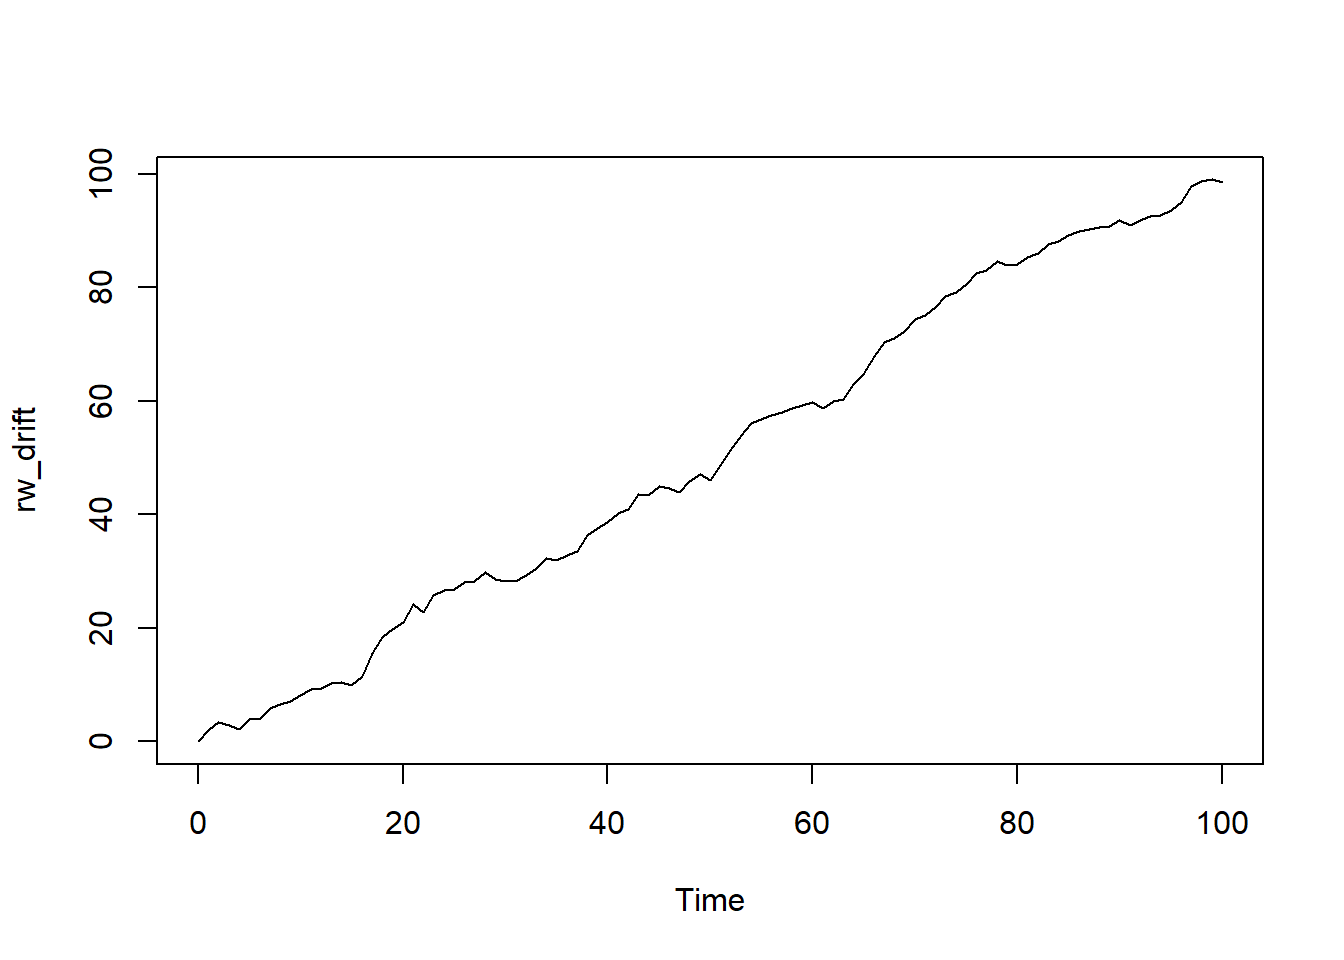
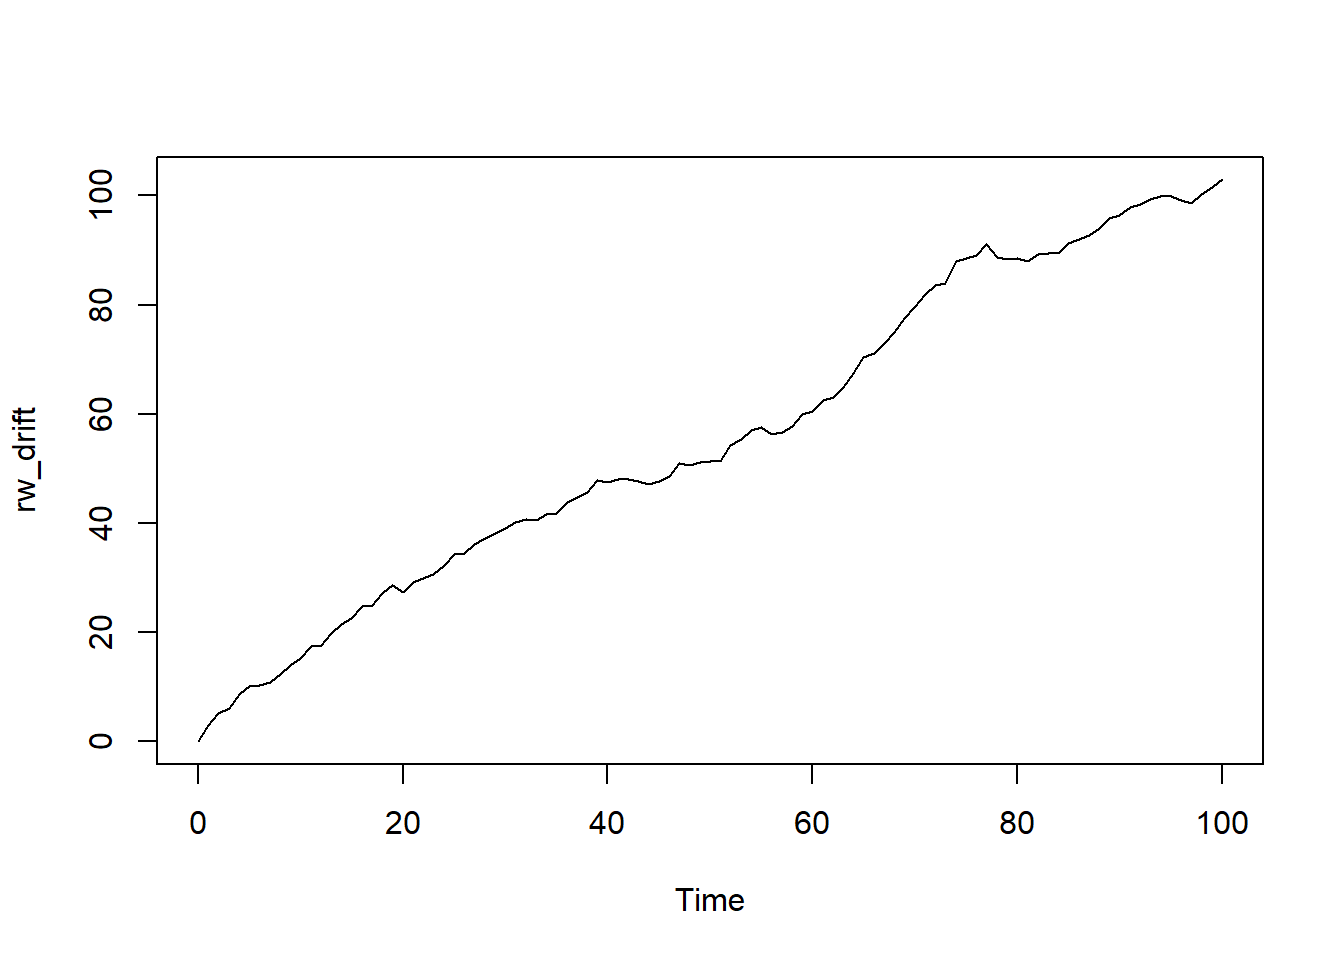
gg

diff --git a/content/post/2021-10-27-time-series-analysis-in-r/index.en.html b/content/post/2021-10-27-time-series-analysis-in-r/index.en.html
@@ -25,13 +25,19 @@ class(Nile)</code></pre>
 <pre><code>## [1] &quot;ts&quot;</code></pre>
 <pre class="r"><code>data_vector &lt;- c(2.0521941073,  4.2928852797,  3.3294132944,  3.5085950670,  0.0009576938, 1.9217186345,  0.7978134128,  0.2999543435, 0.9435687536,  0.5748283388, -0.0034005903,  0.3448649176,  2.2229761136,  0.1763144576, 2.7097622770, 1.2501948965, -0.4007164754,  0.8852732121, -1.5852420266, -2.2829278891, -2.5609531290, -3.1259963754, -2.8660295895, -1.7847009207, -1.8894912908, -2.7255351194, -2.1033141800, -0.0174256893, -0.3613204151, -2.9008403327, -3.2847440927, -2.8684594718, -1.9505074437, -4.8801892525, -3.2634605353, -1.6396062522, -3.3012575840, -2.6331245433, -1.7058354022, -2.2119825061, -0.5170595186,  0.0752508095, -0.8406994716, -1.4022683487, -0.1382114230, -1.4065954703, -2.3046941055,  1.5073891432, 0.7118679477, -1.1300519022)
 
-eu_stocks &lt;- as.ts(read.csv(&quot;eu_stocks.csv&quot;), start = 1998, end = 1998)
-#eu_stocks &lt;- ts(eu_stocks1, start = 1998, end = 1998)
+eu_stocks &lt;- as.ts(read.csv(&quot;eu_stocks.csv&quot;), start = c(1991, 130), end = c(1998, 169), frequency=260)
+
 
 rapid_growth &lt;- as.vector(read.csv(&quot;rapid_growth.csv&quot;))
 z &lt;- read.csv(&quot;z.csv&quot;)$x
 x &lt;- read.csv(&quot;x.csv&quot;)$x
-y &lt;- read.csv(&quot;y.csv&quot;)$x</code></pre>
+y &lt;- read.csv(&quot;y.csv&quot;)$x
+
+str(eu_stocks)</code></pre>
+<pre><code>##  Time-Series [1:1860, 1:4] from 1 to 1860: 1629 1614 1607 1621 1618 ...
+##  - attr(*, &quot;dimnames&quot;)=List of 2
+##   ..$ : NULL
+##   ..$ : chr [1:4] &quot;DAX&quot; &quot;SMI&quot; &quot;CAC&quot; &quot;FTSE&quot;</code></pre>
 <div id="course-description" class="section level2">
 <h2>Course Description</h2>
 <p>Many phenomena in our day-to-day lives, such as the movement of stock prices, are measured in intervals over a period of time. Time series analysis methods are extremely useful for analyzing these special data types. In this course, you will be introduced to some core time series analysis concepts and techniques.</p>
@@ -547,10 +553,96 @@ abline(0, int_wn)</code></pre>
 <h2>2-16 Are the white noise model or the random walk model stationary?</h2>
 <p>The white noise (WN) and random walk (RW) models are very closely related. However, only the RW is always non-stationary, both with and without a drift term. This is a simulation exercise to highlight the differences.</p>
 <p>Recall that if we start with a mean zero WN process and compute its running or cumulative sum, the result is a RW process. The cumsum() function will make this transformation for you. Similarly, if we create a WN process, but change its mean from zero, and then compute its cumulative sum, the result is a RW process with a drift.</p>
+<pre class="r"><code># Use arima.sim() to generate WN data
+white_noise &lt;- arima.sim(model= list(order = c(0, 0, 0)), n=100)
+
+# Use cumsum() to convert your WN data to RW
+random_walk &lt;- cumsum(white_noise)
+  
+# Use arima.sim() to generate WN drift data
+wn_drift &lt;- arima.sim(model= list(order = c(0, 0, 0)), mean=0.4, n=100)
+  
+# Use cumsum() to convert your WN drift data to RW
+rw_drift &lt;- cumsum(wn_drift)
+
+# Plot all four data objects
+plot.ts(cbind(white_noise, random_walk, wn_drift, rw_drift))</code></pre>
+<p><img src="{{< blogdown/postref >}}index.en_files/figure-html/unnamed-chunk-18-1.png" width="672" /></p>
 </div>
 <div id="correlation-analysis-and-the-autocorrelation-function" class="section level2">
 <h2>3- Correlation analysis and the autocorrelation function</h2>
 <p>In this chapter, you will review the correlation coefficient, use it to compare two time series, and also apply it to compare a time series with its past, as an autocorrelation. You will discover the autocorrelation function (ACF) and practice estimating and visualizing autocorrelations for time series data.</p>
+</div>
+<div id="asset-prices-vs.-asset-returns" class="section level2">
+<h2>3-2 Asset prices vs. asset returns</h2>
+<p>The goal of investing is to make a profit. The revenue or loss from investing depends on the amount invested and changes in prices, and high revenue relative to the size of an investment is of central interest. This is what financial asset returns measure, changes in price as a fraction of the initial price over a given time horizon, for example, one business day.</p>
+<p>Let’s again consider the eu_stocks dataset. This dataset reports index values, which we can regard as prices. The indices are not investable assets themselves, but there are many investable financial assets that closely track major market indices, including mutual funds and exchange traded funds.</p>
+<p>Log returns, also called continuously compounded returns, are also commonly used in financial time series analysis. They are the log of gross returns, or equivalently, the changes (or first differences) in the logarithm of prices.</p>
+<p>The change in appearance between daily prices and daily returns is typically substantial, while the difference between daily returns and log returns is usually small. As you’ll see later, one advantage of using log returns is that calculating multi-period returns from individual periods is greatly simplified - you just add them together!</p>
+<p>In this exercise, you’ll further explore the eu_stocks dataset, including plotting prices, converting prices to (net) returns, and converting prices to log returns.</p>
+<pre class="r"><code># Plot eu_stocks
+plot(eu_stocks)</code></pre>
+<p><img src="{{< blogdown/postref >}}index.en_files/figure-html/unnamed-chunk-19-1.png" width="672" /></p>
+<pre class="r"><code># Use this code to convert prices to returns
+returns &lt;- eu_stocks[-1,] / eu_stocks[-1860,] - 1
+
+# Convert returns to ts
+returns &lt;- ts(returns, start = c(1991, 130), frequency = 260)
+
+# Plot returns
+plot(returns)</code></pre>
+<p><img src="{{< blogdown/postref >}}index.en_files/figure-html/unnamed-chunk-19-2.png" width="672" /></p>
+<pre class="r"><code># Use this code to convert prices to log returns
+logreturns &lt;- diff(log(eu_stocks))
+
+# Plot logreturns
+plot(logreturns)</code></pre>
+<p><img src="{{< blogdown/postref >}}index.en_files/figure-html/unnamed-chunk-19-3.png" width="672" /></p>
+</div>
+<div id="characteristics-of-financial-time-series" class="section level2">
+<h2>3-3 Characteristics of financial time series</h2>
+<p>Daily financial asset returns typically share many characteristics. Returns over one day are typically small, and their average is close to zero. At the same time, their variances and standard deviations can be relatively large. Over the course of a few years, several very large returns (in magnitude) are typically observed. These relative outliers happen on only a handful of days, but they account for the most substantial movements in asset prices. Because of these extreme returns, the distribution of daily asset returns is not normal, but heavy-tailed, and sometimes skewed. In general, individual stock returns typically have even greater variability and more extreme observations than index returns.</p>
+<p>In this exercise, you’ll work with the eu_percentreturns dataset, which is the percentage returns calculated from your eu_stocks data. For each of the four indices contained in your data, you’ll calculate the sample mean, variance, and standard deviation.</p>
+<p>Notice that the average daily return is about 0, while the standard deviation is about 1 percentage point. Also apply the hist() and qqnorm() functions to make histograms and normal quantile plots, respectively, for each of the indices.</p>
+</div>
+<div id="plotting-pairs-of-data" class="section level2">
+<h2>3-4 Plotting pairs of data</h2>
+<p>Time series data is often presented in a time series plot. For example, the index values from the eu_stocks dataset are shown in the adjoining figure. Recall, eu_stocks contains daily closing prices from 1991-1998 for the major stock indices in Germany (DAX), Switzerland (SMI), France (CAC), and the UK (FTSE).</p>
+<p>It is also useful to examine the bivariate relationship between pairs of time series. In this exercise we will consider the contemporaneous relationship, that is matching observations that occur at the same time, between pairs of index values as well as their log returns. The plot(a, b) function will produce a scatterplot when two time series names a and b are given as input.</p>
+<p>To simultaneously make scatterplots for all pairs of several assets the pairs() function can be applied to produce a scatterplot matrix. When shared time trends are present in prices or index values it is common to instead compare their returns or log returns.</p>
+<p>In this exercise, you’ll practice these skills on the eu_stocks data. Because the DAX and FTSE returns have similar time coverage, you can easily make a scatterplot of these indices. Note that the normal distribution has elliptical contours of equal probability, and pairs of data drawn from the multivariate normal distribution form a roughly elliptically shaped point cloud. Do any of the pairs in the scatterplot matrices exhibit this pattern, before or after log transformation?</p>
+</div>
+<div id="calculating-sample-covariances-and-correlations" class="section level2">
+<h2>3-6 Calculating sample covariances and correlations</h2>
+<p>Sample covariances measure the strength of the linear relationship between matched pairs of variables. The cov() function can be used to calculate covariances for a pair of variables, or a covariance matrix when a matrix containing several variables is given as input. For the latter case, the matrix is symmetric with covariances between variables on the off-diagonal and variances of the variables along the diagonal. On the right you can see the scatterplot matrix of your logreturns data.</p>
+<p>Covariances are very important throughout finance, but they are not scale free and they can be difficult to directly interpret. Correlation is the standardized version of covariance that ranges in value from -1 to 1, where values close to 1 in magnitude indicate a strong linear relationship between pairs of variables. The cor() function can be applied to both pairs of variables as well as a matrix containing several variables, and the output is interpreted analogously.</p>
+<p>In this exercise, you’ll use cov() and cor() to explore your logreturns data.</p>
+</div>
+<div id="calculating-autocorrelations" class="section level2">
+<h2>3-9 Calculating autocorrelations</h2>
+<p>Autocorrelations or lagged correlations are used to assess whether a time series is dependent on its past. For a time series x of length n we consider the n-1 pairs of observations one time unit apart. The first such pair is (x[2],x[1]), and the next is (x[3],x[2]). Each such pair is of the form (x[t],x[t-1]) where t is the observation index, which we vary from 2 to n in this case. The lag-1 autocorrelation of x can be estimated as the sample correlation of these (x[t], x[t-1]) pairs.</p>
+<p>In general, we can manually create these pairs of observations. First, create two vectors, x_t0 and x_t1, each with length n-1, such that the rows correspond to (x[t], x[t-1]) pairs. Then apply the cor() function to estimate the lag-1 autocorrelation.</p>
+<p>Luckily, the acf() command provides a shortcut. Applying</p>
+<p>acf(…, lag.max = 1, plot = FALSE)</p>
+<p>to a series x automatically calculates the lag-1 autocorrelation.</p>
+<p>Finally, note that the two estimates differ slightly as they use slightly different scalings in their calculation of sample covariance, 1/(n-1) versus 1/n. Although the latter would provide a biased estimate, it is preferred in time series analysis, and the resulting autocorrelation estimates only differ by a factor of (n-1)/n.</p>
+<p>In this exercise, you’ll practice both the manual and automatic calculation of a lag-1 autocorrelation. The time series x and its length n (150) have already been loaded. The series is shown in the plot on the right.</p>
+</div>
+<div id="the-autocorrelation-function" class="section level2">
+<h2>3-10 The autocorrelation function</h2>
+<p>Autocorrelations can be estimated at many lags to better assess how a time series relates to its past. We are typically most interested in how a series relates to its most recent past.</p>
+<p>The</p>
+<p>acf(…, lag.max = …, plot = FALSE)</p>
+<p>function will estimate all autocorrelations from 0, 1, 2,…, up to the value specified by the argument lag.max. In the previous exercise, you focused on the lag-1 autocorrelation by setting the lag.max argument to 1.</p>
+<p>In this exercise, you’ll explore some further applications of the acf() command. Once again, the time series x has been preloaded for you and is shown in the plot on the right.</p>
+</div>
+<div id="visualizing-the-autocorrelation-function" class="section level2">
+<h2>3-11 Visualizing the autocorrelation function</h2>
+<p>Estimating the autocorrelation function (ACF) at many lags allows us to assess how a time series x relates to its past. The numeric estimates are important for detailed calculations, but it is also useful to visualize the ACF as a function of the lag.</p>
+<p>In fact, the acf() command produces a figure by default. It also makes a default choice for lag.max, the maximum number of lags to be displayed.</p>
+<p>Three time series x, y, and z have been loaded into your R environment and are plotted on the right. The time series x shows strong persistence, meaning the current value is closely relatively to those that proceed it. The time series y shows a periodic pattern with a cycle length of approximately four observations, meaning the current value is relatively close to the observation four before it. The time series z does not exhibit any clear pattern.</p>
+<p>In this exercise, you’ll plot an estimated autocorrelation function for each time series. In the plots produced by acf(), the lag for each autocorrelation estimate is denoted on the horizontal axis and each autocorrelation estimate is indicated by the height of the vertical bars. Recall that the ACF at lag-0 is always 1.</p>
+<p>Finally, each ACF figure includes a pair of blue, horizontal, dashed lines representing lag-wise 95% confidence intervals centered at zero. These are used for determining the statistical significance of an individual autocorrelation estimate at a given lag versus a null value of zero, i.e., no autocorrelation at that lag.</p>
 </div>
 <div id="autoregression" class="section level2">
 <h2>4- Autoregression</h2>
@@ -567,11 +659,11 @@ names(e)</code></pre>
 <pre class="r"><code>e %&gt;%  pivot_longer(c(Lab.1...10,Lab.2...10)) %&gt;% 
   ggplot(aes(value,color=name))+geom_density()</code></pre>
 <pre><code>## Warning: Removed 13 rows containing non-finite values (stat_density).</code></pre>
-<p><img src="{{< blogdown/postref >}}index.en_files/figure-html/unnamed-chunk-20-1.png" width="672" /></p>
+<p><img src="{{< blogdown/postref >}}index.en_files/figure-html/unnamed-chunk-27-1.png" width="672" /></p>
 <pre class="r"><code>e %&gt;% mutate(q3=Quiz.3..15*20/15) %&gt;% pivot_longer(c(Quiz.1..20,Quiz.2..20,q3)) %&gt;% 
   ggplot(aes(value,color=name))+geom_density()</code></pre>
 <pre><code>## Warning: Removed 23 rows containing non-finite values (stat_density).</code></pre>
-<p><img src="{{< blogdown/postref >}}index.en_files/figure-html/unnamed-chunk-21-1.png" width="672" /></p>
+<p><img src="{{< blogdown/postref >}}index.en_files/figure-html/unnamed-chunk-28-1.png" width="672" /></p>
 <pre class="r"><code>Q1_m &lt;- 5*mean(e$Quiz.1..20, na.rm=TRUE)
 print(paste(&quot;quiz 1: &quot;,Q1_m))</code></pre>
 <pre><code>## [1] &quot;quiz 1:  57.8483606557377&quot;</code></pre>
